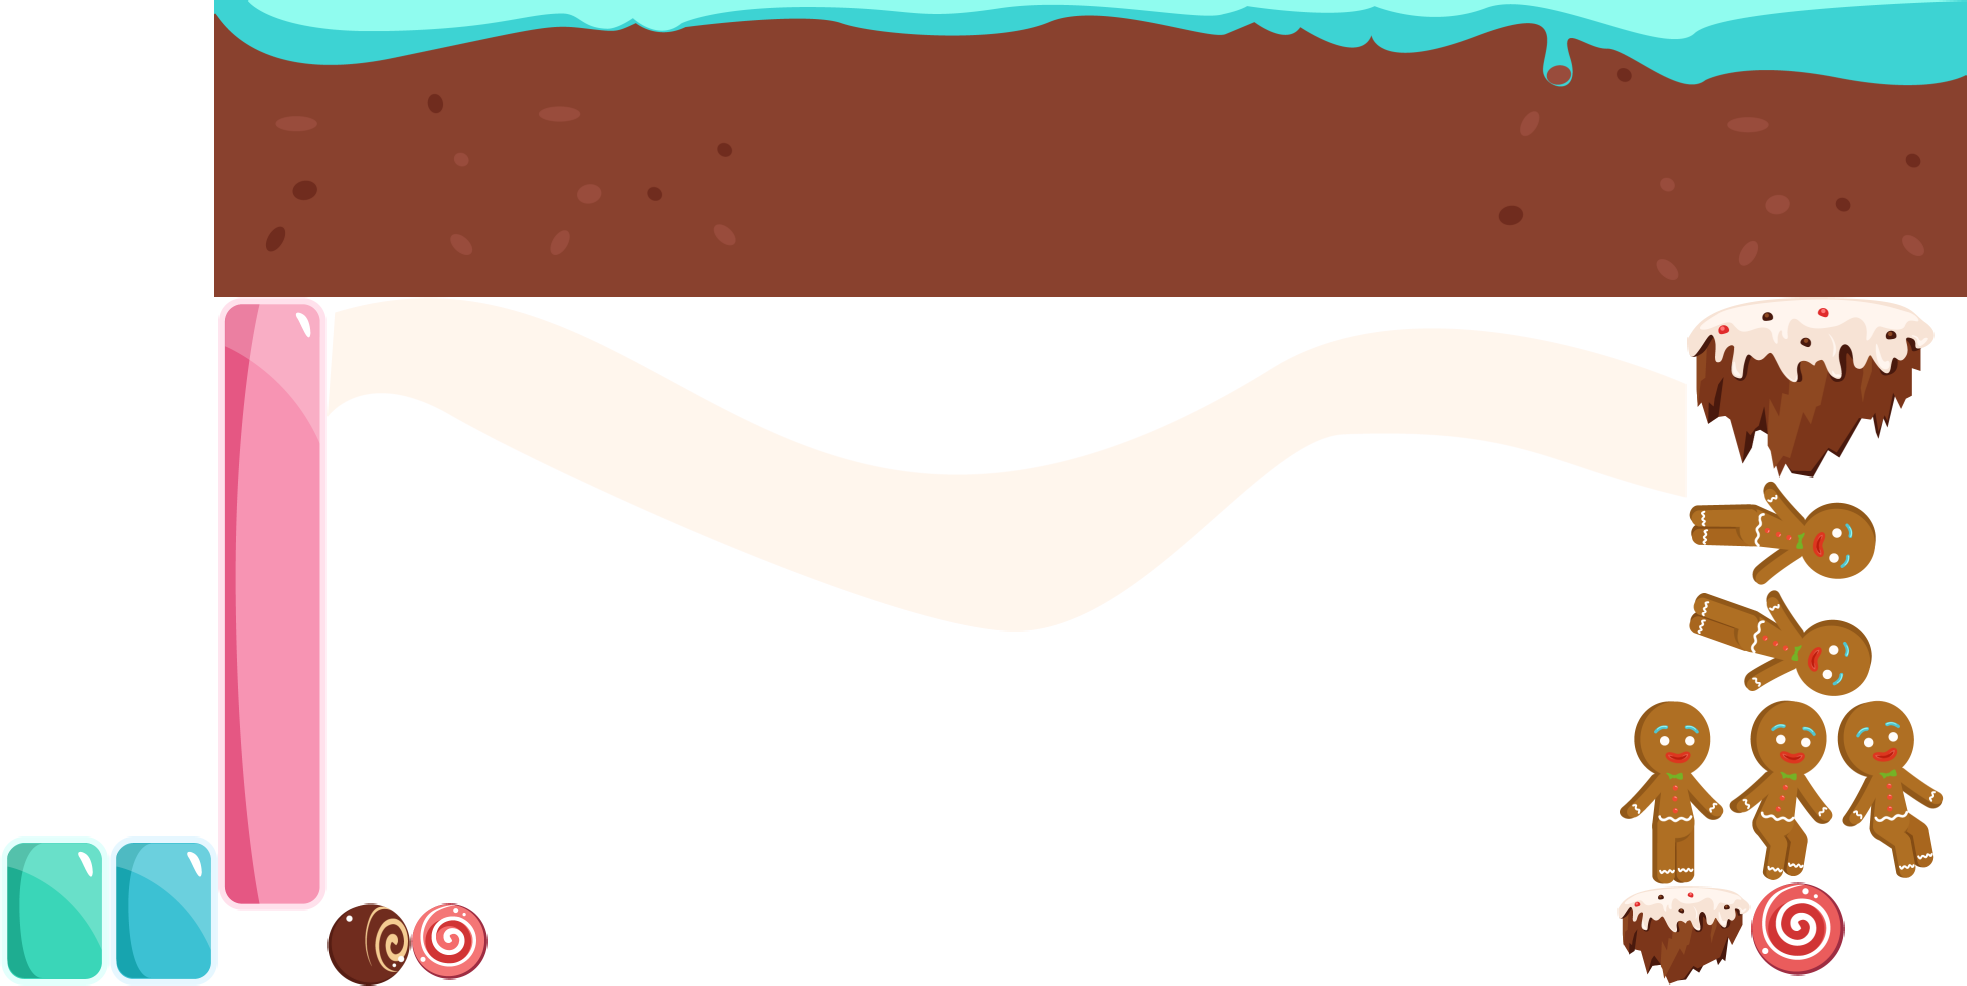
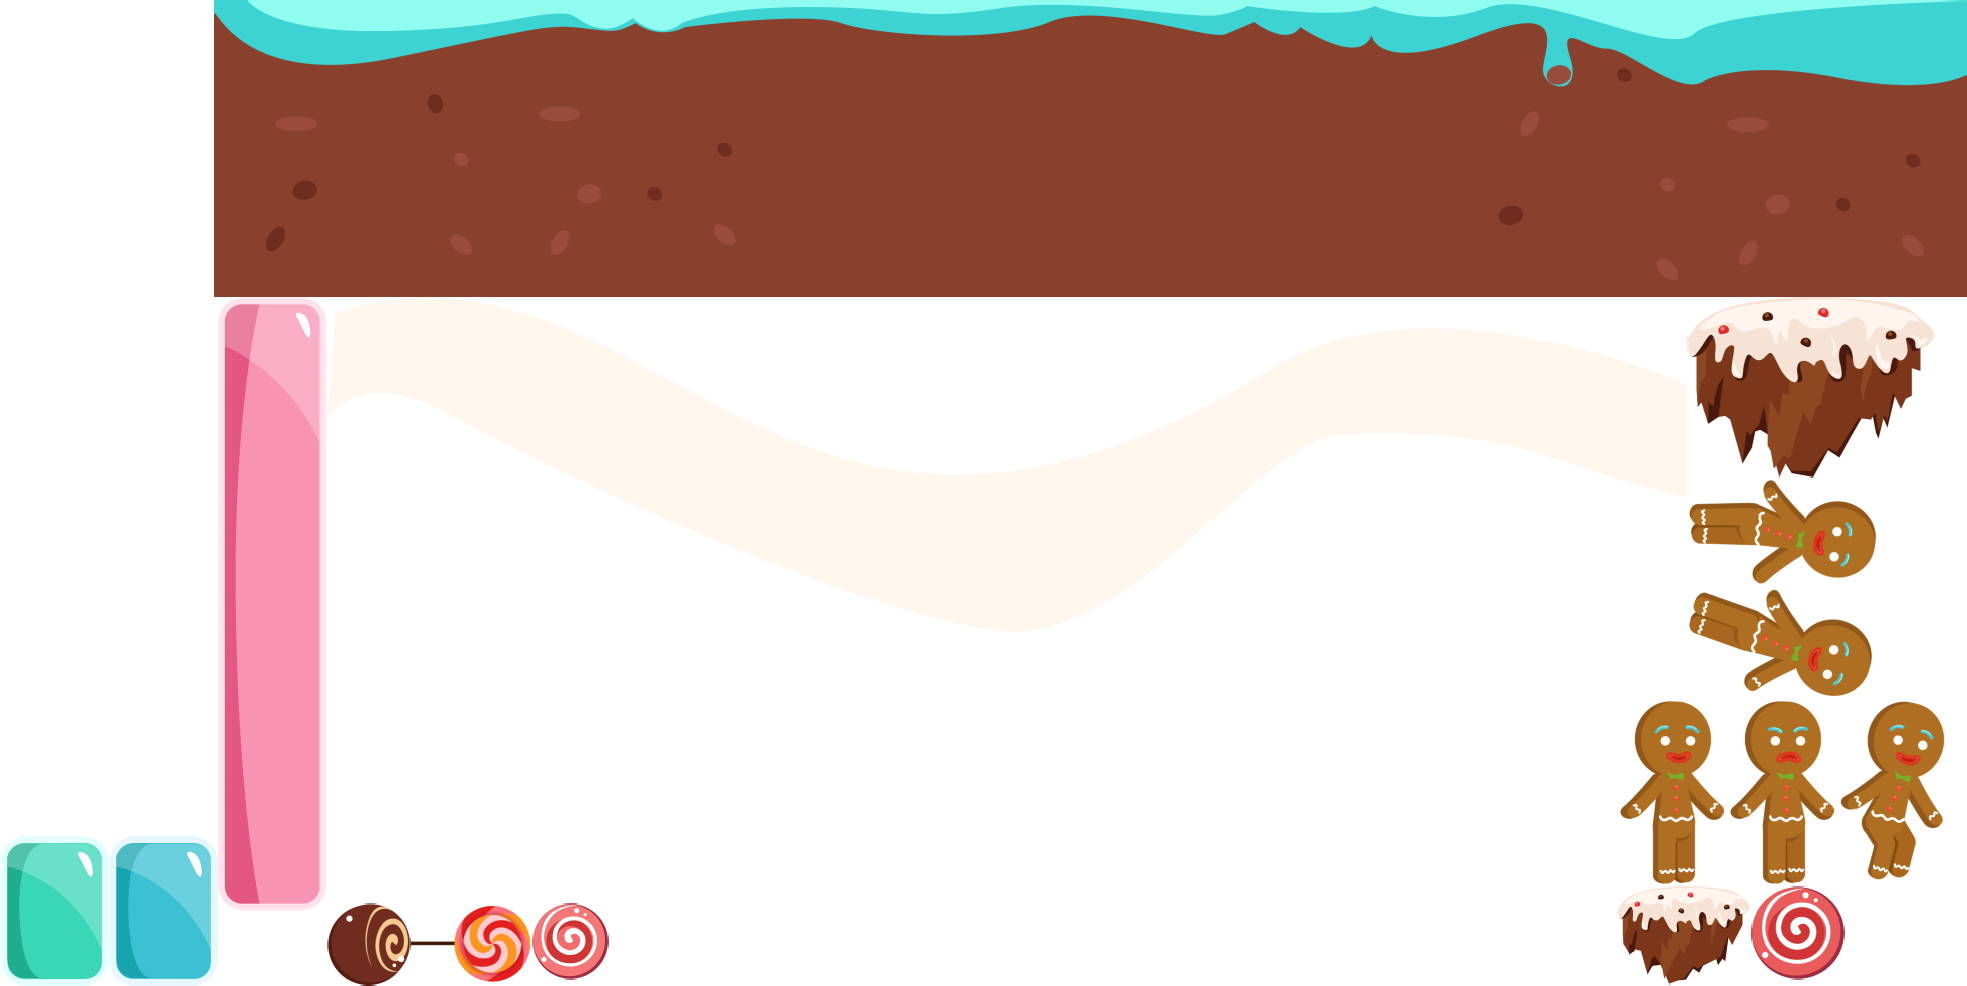
updated code

diff --git a/goa/frameworks/runtime-src/Classes/mini_games/Dash.cpp b/goa/frameworks/runtime-src/Classes/mini_games/Dash.cpp
@@ -64,10 +64,11 @@ bool Dash::init()
 
 
 	
-	_differntSceneMapping = {
+	std::map<std::string, std::map<std::string, std::string>> differntSceneMapping = {
 	   {
 		   {"city",  //sonu designs
 			   {
+				   { "plist", "dash/dash.plist" },
 				   { "bg", "dash/DashScene.csb"},
 				   { "step", "dash/step.png"},
 				   { "step_winning", "dash/step_winning.png"},
@@ -79,6 +80,7 @@ bool Dash::init()
 			   }},
 		   {"iceLand",  //anu designs
 			   {
+				   { "plist", "dashisland/dashisland.plist" },
 				   { "bg", "dashisland/dashisland.csb" },
 				   { "step", "dashisland/step.png" },
 				   { "step_winning", "dashisland/step_winning.png" },
@@ -90,27 +92,26 @@ bool Dash::init()
 			   }},
 		   {"candy",  //teju design
 			   {
+				   { "plist", "dashcandy/dashcandy.plist" },
 				   { "bg", "dashcandy/dashcandy.csb" },
 				   { "step", "dashcandy/step.png" },
 				   { "step_winning", "dashcandy/step_winning.png" },
-				   { "flag", "dashcandy/chocolate2.png" },
+				   { "flag", "dashcandy/flag.png" },
 				   { "button", "dashcandy/answer_button.png" },
 				   { "character", "dashcandy/character.csb" },
 				   { "right_animation", "jump" },
-				   { "wrong_animation", "null" }
+				   { "wrong_animation", "angry" }
 			   }},
 		   
 	   }
 
 	};
 	
-	
-	_scenePath = _differntSceneMapping.at("candy");
+	std::vector<std::string> theme = { "city","candy","iceLand" };
+	_scenePath = differntSceneMapping.at(theme.at(cocos2d::RandomHelper::random_int(0, 2)));
 
 	auto spritecache1 = SpriteFrameCache::getInstance();
-	spritecache1->addSpriteFramesWithFile("dash/dash.plist");
-	auto spritecache2 = SpriteFrameCache::getInstance();
-	spritecache1->addSpriteFramesWithFile("dashisland/dashisland.plist");
+	spritecache1->addSpriteFramesWithFile(_scenePath.at("plist"));
 
 	_bg = CSLoader::createNode(_scenePath.at("bg"));//dash/DashScene.csb
 	if (visibleSize.width > 2560) {
@@ -197,11 +198,11 @@ bool Dash::init()
 	return true;
 }
 
-void Dash::wordCheck()
+void Dash::jumpTimeline(cocos2d::Node * node, std::string animationName)
 {
-	auto mouthTimeline = CSLoader::createTimeline(_scenePath.at("character"));
-	_character->runAction(mouthTimeline);
-	mouthTimeline->play(_scenePath.at("right_animation"), false);
+	auto jumpTimeline = CSLoader::createTimeline(_scenePath.at("character"));
+	node->runAction(jumpTimeline);
+	jumpTimeline->play(animationName, false);
 }
 
 void Dash::myCharacterJumping(int jumpCount)
@@ -210,7 +211,7 @@ void Dash::myCharacterJumping(int jumpCount)
 	Size visibleSize = Director::getInstance()->getVisibleSize();
 	auto jump = JumpBy::create(1, Vec2(0, 0), 200, 1);
 	_character->runAction(jump);
-	wordCheck();
+	jumpTimeline(_character, _scenePath.at("right_animation"));
 	auto moveTo = MoveBy::create(1, Vec2(-(visibleSize.width / 5) - (jumpCount - _jumpCount), 0));
 	_stepLayer->runAction(Sequence::create(moveTo, CallFunc::create([=]() {
 		_jumpCount++;
@@ -235,8 +236,9 @@ void Dash::otherCharacterJumping(int jumpCount)
 {
 	_enemyJumpCount++;
 	Size visibleSize = Director::getInstance()->getVisibleSize();
-	auto jump = JumpBy::create(2, Vec2(visibleSize.width / 5, 0), 200, 1);
+	auto jump = JumpBy::create(1, Vec2(visibleSize.width / 5, 0), 200, 1);
 	_otherCharacter->runAction(jump);
+	jumpTimeline(_otherCharacter, _scenePath.at("right_animation"));
 	if (_enemyJumpCount == 14) {
 		menu->showScore();
 	}

diff --git a/goa/frameworks/runtime-src/Classes/mini_games/Dash.h b/goa/frameworks/runtime-src/Classes/mini_games/Dash.h
@@ -24,7 +24,6 @@ public:
 	virtual bool init();
 	static cocos2d::Scene* createScene();
 	void updatePlayerPosition(std::string playerName, int stepPosition);
-	std::map<std::string, std::map<std::string, std::string>> _differntSceneMapping;
 	std::map<std::string, std::string> _scenePath;
 protected:
 	int _gameScore, _enemyScore;
@@ -35,7 +34,7 @@ protected:
 	cocos2d::Vector <cocos2d::Sprite *> _choiceButton;
 	cocos2d::Vector <cocos2d::Label *> _choiceLabel;
 	cocos2d::Node * _character, * _otherCharacter, *_bg;
-	void wordCheck();
+	void jumpTimeline(cocos2d::Node * node, std::string animationName);
 	MenuContext * menu;
 	cocostudio::timeline::ActionTimeline * _mycharacterAnim;
 	void myCharacterJumping(int jumpCount);
